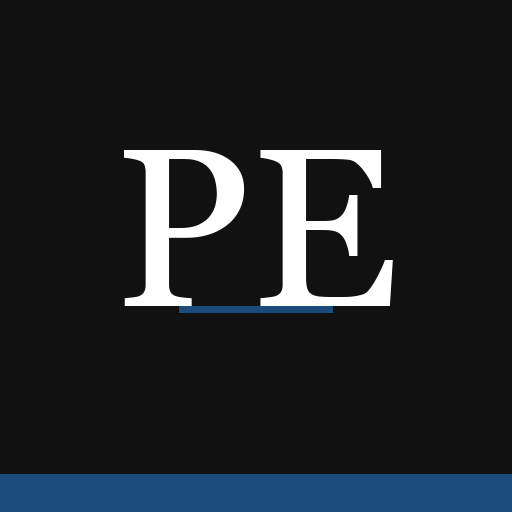
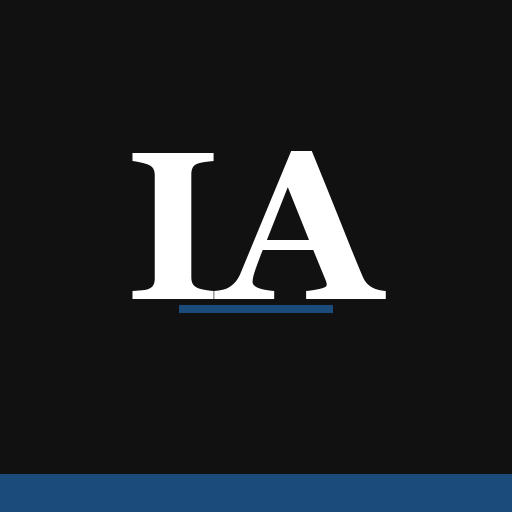
App heißt jetzt ImmoApp
Neuer Name für Titel, Startbildschirm, Kopfzeile, Manifest und iOS-Titel.
Icons mit Monogramm "IA" im bisherigen Stil neu erzeugt (Dateien und
eingebettete Data-URIs). Berichtsüberschrift und Dateinamen der Exporte
bleiben "Rechnerische Preisermittlung" — sie benennen das Dokument.

Service-Worker-Cache auf v7.

Changed region(s): [[0.2188, 0.2812, 0.7812, 0.625]]

diff --git a/index.html b/index.html
@@ -3,7 +3,7 @@
 <head>
 <meta charset="UTF-8">
 <meta name="viewport" content="width=device-width, initial-scale=1.0, viewport-fit=cover">
-<title>Rechnerische Preisermittlung</title>
+<title>ImmoApp</title>
 <!-- PWA: installierbar auf Handy/Tablet, offline nutzbar.
      Die Icons sind als data:-URI eingebettet: Damit ergibt schon der Upload
      dieser einen Datei eine vollwertige, installierbare App. Liegen zusaetzlich
@@ -12,10 +12,10 @@
 <meta name="theme-color" content="#111111">
 <meta name="apple-mobile-web-app-capable" content="yes">
 <meta name="apple-mobile-web-app-status-bar-style" content="black">
-<meta name="apple-mobile-web-app-title" content="Preisermittlung">
+<meta name="apple-mobile-web-app-title" content="ImmoApp">
 <meta name="mobile-web-app-capable" content="yes">
[4 lines of base64/hex data omitted]
 <style>
   :root{
     --blue:#232323;      /* Ink: Überschriften/Emphasis */
@@ -350,7 +350,7 @@
 <body>
 <div id="startscreen">
   <div class="start-inner">
-    <div class="brand"><div class="logo">🏠</div><div><h1>Rechnerische Preisermittlung</h1></div></div>
+    <div class="brand"><div class="logo">🏠</div><div><h1>ImmoApp</h1></div></div>
     <p class="lead" id="start-lead">Womit möchtest du arbeiten?</p>
 
     <div id="start-step0">
@@ -384,7 +384,7 @@
 </div>
 <header class="app">
   <div class="logo">🏠</div>
-  <h1>Rechnerische Preisermittlung<small id="hdr_sub">Immobilien-Preisermittlung · Vordruck</small></h1>
+  <h1>ImmoApp<small id="hdr_sub">Preisermittlung &amp; Marktüberblick</small></h1>
   <div class="actions">
     <button class="ghost" onclick="showStart()">◀ Vordruck</button>
     <button class="ghost" id="installBtn" onclick="appInstallieren()">📲 Installieren</button>
@@ -1351,14 +1351,14 @@ function computeNHK(prefix, baujahr, points){
 /* ---------- PWA: Installation & Offline-Betrieb ---------- */
 let DEFERRED_PROMPT=null;
 /* Eingebettete Icons – erlauben den Betrieb als Einzeldatei */
[2 lines of base64/hex data omitted]
 /* Fehlt manifest.webmanifest (Einzeldatei-Upload), wird es zur Laufzeit erzeugt.
    start_url/scope absolut, damit die Aufloesung unabhaengig vom Ablageort stimmt. */
 (function(){
   fetch('./manifest.webmanifest',{method:'HEAD'}).then(r=>{if(!r.ok)throw 0;}).catch(()=>{
     try{
       const hier=location.href.split('#')[0].split('?')[0];
-      const m={name:'Rechnerische Preisermittlung',short_name:'Preisermittlung',lang:'de',
+      const m={name:'ImmoApp',short_name:'ImmoApp',lang:'de',
         start_url:hier,scope:hier.replace(/[^/]*$/,''),display:'standalone',
         background_color:'#eceae7',theme_color:'#111111',
         icons:[{src:APP_ICONS.i192,sizes:'192x192',type:'image/png',purpose:'any'},
@@ -1390,7 +1390,7 @@ function appInstallieren(){
   // iPhone/iPad: Safari bietet keinen Installations-Dialog an
   let iOS=/iPad|iPhone|iPod/.test(navigator.userAgent);
   alert(iOS
-    ? 'Auf dem iPhone/iPad:\n\n1. In Safari auf „Teilen" tippen (Quadrat mit Pfeil nach oben)\n2. „Zum Home-Bildschirm" wählen\n3. Mit „Hinzufügen" bestätigen\n\nDanach startet die Preisermittlung wie eine App – auch ohne Internet.'
+    ? 'Auf dem iPhone/iPad:\n\n1. In Safari auf „Teilen" tippen (Quadrat mit Pfeil nach oben)\n2. „Zum Home-Bildschirm" wählen\n3. Mit „Hinzufügen" bestätigen\n\nDanach startet die ImmoApp wie eine App – auch ohne Internet.'
     : 'Im Browser-Menü (⋮) „App installieren" bzw. „Zum Startbildschirm hinzufügen" wählen.\n\nHinweis: Die Installation funktioniert nur, wenn die Seite über https:// aufgerufen wird.');
 }
 

diff --git a/sw.js b/sw.js
@@ -1,6 +1,6 @@
 /* Service Worker – macht die Preisermittlung offline nutzbar.
    CACHE bei jeder Änderung an der App hochzählen, damit Geräte die neue Version laden. */
-const CACHE = 'preisermittlung-v6';
+const CACHE = 'preisermittlung-v7';
 
 const ASSETS = [
   './',

diff --git a/README.md b/README.md
@@ -1,6 +1,6 @@
-# Rechnerische Preisermittlung
+# ImmoApp
 
-Web-App zur rechnerischen Preisermittlung von Immobilien nach ImmoWertV –
+Web-App für Immobilienberater: rechnerische Preisermittlung nach ImmoWertV –
 Substanz-(Sachwert-), Ertrags- und Vergleichswertverfahren, Aufnahmebogen für den
 Ortstermin, Fotodokumentation und druckfertiger Bericht.
 
